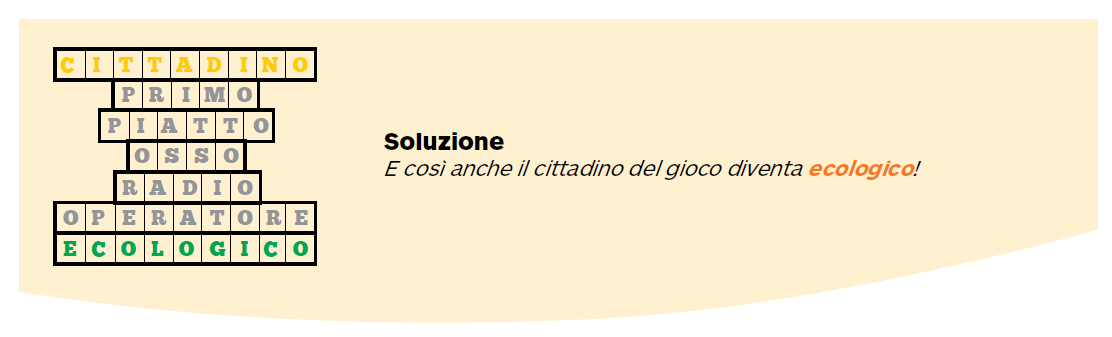
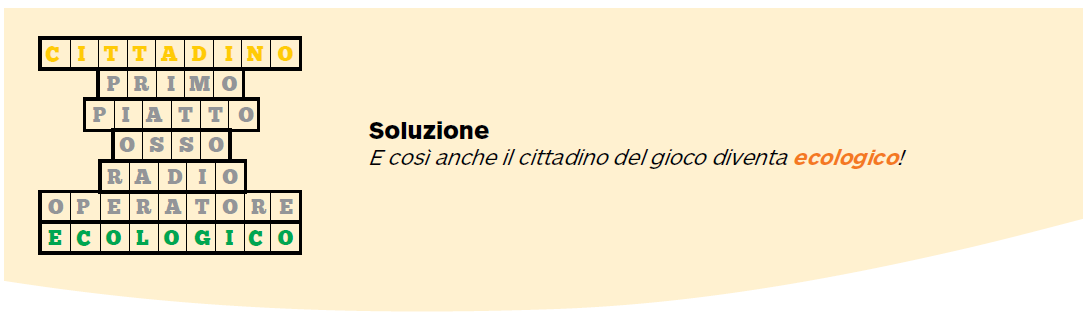
Pannelo 15 rifatto completamente. Ridimensionata immagine soluzione.

Changed region(s): [[0.0, 0.0, 1.0, 0.9937], [0.3343, 0.3691, 0.8508, 0.5394]]

diff --git a/p15Soluzione.html b/p15Soluzione.html
@@ -12,71 +12,73 @@
 		<title> Soluzione </title>
 	</head>
 	<body>
-		<img src="./img/p15Intestazione.png" alt="Intestazione" style="width:100%"><br>
-		<h1 class="TitoloParte2"> Cittadini a basso consumo </h1><br><br>
+		<header>
+			<img src="./img/p15Intestazione.png" alt="Intestazione" class="Intestazione">
+		</header>
+		<main>
+			<h1 class="Colore Titolo2 "> Cittadini a basso consumo</h1>
+			<center>
+				<img src="./img/p15Domotica.png" class="ImgResize80" style="width:65%">
+			</center>
+			<section class="row">
+				<article class="col">
+					La <b>citt&agrave; intelligente</b> &egrave; abitata da cittadini che ne sfruttano
+					in modo consapevole e sostenibile le risorse. Il
+					<b>cittadino</b> della <i>smart city</i> produce energia <b>pulita</b>, la
+					<b>utilizza</b> e la <b>scambia</b> con la rete e, grazie alle tecnologie,
+					conosce in tempo reale i suoi consumi. La sua casa
+					&egrave; un edificio verde, costruito con tecniche di <i><b>green
+					building</b></i> e governato dalla <b>domotica</b>, che lo aiuta a
+					evitare sprechi dovuti a dimenticanze e malfunzionamenti.
+					I sistemi domotici gestiscono gli elettrodomestici
+					in modo razionale, azionano tapparelle, termosifoni
+					e condizionatori in funzione della temperatura e
+					della luce del sole, comprendono prese che regolano
+					spegnimenti e consumi e lampade smart che modulano
+					l&apos;intensit&agrave; della luce. <br>
+					E gli oggetti dialogano tra loro, con la citt&agrave; e con cittadini
+					in una rete <b>&ldquo;Internet delle Cose&rdquo;</b> (<i>Internet of Things</i>)
+					che vedr&agrave; nel 2020 <b>cinquanta miliardi</b> di <b>dispositivi
+					connessi</b>! Queste innovazioni si stanno diffondendo e
+					nei prossimi decenni saranno una realt&agrave; comune. <br>
+					Ma tu puoi da subito cambiare le tue abitudini e adottare
+					<b>comportamenti virtuosi</b>. Qualche consiglio? <br><br>
+					- Le <b>lampadine</b> ad incandescenza sono fuori legge... se ne sopravvive qualcuna, sostituiscila con una
+					lampadina a basso consumo, possibilmente a <b>LED</b> <br>
+					- Non lasciare in <b>stand-by</b> televisori, computer o stampanti
+				</article>
+				<article class="col">
+					- <b>Spegni la luce</b> quando esci da una stanza <br>
+					- Non riporre <b>cibi caldi</b> nel <b>frigorifero</b> (e sbrinalo
+					spesso!) <br>
+					- Scegli bene la <b>classe energetica</b> dei tuoi elettrodomestici:
+					pi&ugrave; alta &egrave; la classe pi&ugrave; basso &egrave; il
+					consumo <br>
+					- Avvia <b>lavatrice</b> e <b>lavastoviglie</b> solo se <b>a pieno
+					carico</b> <br>
+					- Se fa caldo, non aprire porte e finestre: <b>abbassa
+					la temperatura</b> dei termosifoni! <br>
+					- <b>Cambia</b> i <b>vecchi infissi</b> per isolare termicamente
+					la tua casa <br>
+					- Imposta la temperatura dell&apos;<b>impianto di condizionamento</b>
+					in modo da evitare <b>sbalzi termici</b> tra interno ed esterno. <br><br>
+					C&apos;&egrave; tanto da fare per diventare sostenibili ed &egrave; essenziale
+					il contributo di ogni cittadino. <br><br>
+					Speriamo che questo piccolo viaggio nel mondo della
+					sostenibilit&agrave; ti sia servito ad imparare cose nuove
+					e a diventare pi&ugrave; consapevole e pi&ugrave; ecologico.
 
-		<center>
-		<img src="./img/p15Domotica.png" style="width: 70%">
-		</center>
+					<br>
 
-	<div class="TestoSinistra2">
-La <b>citt&agrave; intelligente</b> &egrave; abitata da cittadini che ne sfruttano
-in modo consapevole e sostenibile le risorse. Il
-<b>cittadino</b> della <i>smart city</i> produce energia <b>pulita</b>, la
-<b>utilizza</b> e la <b>scambia</b> con la rete e, grazie alle tecnologie,
-conosce in tempo reale i suoi consumi. La sua casa
-&egrave; un edificio verde, costruito con tecniche di <i><b>green
-building</b></i> e governato dalla <b>domotica</b>, che lo aiuta a
-evitare sprechi dovuti a dimenticanze e malfunzionamenti.
-I sistemi domotici gestiscono gli elettrodomestici
-in modo razionale, azionano tapparelle, termosifoni
-e condizionatori in funzione della temperatura e
-della luce del sole, comprendono prese che regolano
-spegnimenti e consumi e lampade smart che modulano
-l&apos;intensit� della luce. <br>
-E gli oggetti dialogano tra loro, con la citt&agrave; e con cittadini
-in una rete <b>&ldquo;Internet delle Cose&rdquo;</b> (<i>Internet of Things</i>)
-che vedr&agrave; nel 2020 <b>cinquanta miliardi</b> di <b>dispositivi
-connessi</b>! Queste innovazioni si stanno diffondendo e
-nei prossimi decenni saranno una realt&agrave; comune. <br>
-Ma tu puoi da subito cambiare le tue abitudini e adottare
-<b>comportamenti virtuosi</b>. Qualche consiglio? <br><br>
-- Le <b>lampadine</b> ad incandescenza sono fuori legge� se ne sopravvive qualcuna, sostituiscila con una
-lampadina a basso consumo, possibilmente a <b>LED</b> <br>
-- Non lasciare in <b>stand-by</b> televisori, computer o stampanti
-	</div>
+					C&apos;&egrave; tanto da fare per proteggere il nostro ambiente e anche tu puoi dare il tuo contributo di ogni <b>cittadino</b>.
+					Speriamo che questo piccolo viaggio nel mondo della
+					sostenibilit&agrave; ti sia servito ad imparare cose nuove
+					e a diventare pi&ugrave; consapevole e pi&ugrave; <b>ecologico</b>.
 
-	<div class="TestoDestra2">
-- <b>Spegni la luce</b> quando esci da una stanza <br>
-- Non riporre <b>cibi caldi</b> nel <b>frigorifero</b> (e sbrinalo
-spesso!) <br>
-- Scegli bene la <b>classe energetica</b> dei tuoi elettrodomestici:
-pi� alta &egrave; la classe pi� basso � il
-consumo <br>
-- Avvia <b>lavatrice</b> e <b>lavastoviglie</b> solo se <b>a pieno
-carico</b> <br>
-- Se fa caldo, non aprire porte e finestre: <b>abbassa
-la temperatura</b> dei termosifoni! <br>
-- <b>Cambia</b> i <b>vecchi infissi</b> per isolare termicamente
-la tua casa <br>
-- Imposta la temperatura dell&apos;<b>impianto di condizionamento</b>
-in modo da evitare <b>sbalzi termici</b> tra interno ed esterno. <br><br>
-C&apos;&egrave; tanto da fare per diventare sostenibili ed &egrave; essenziale
-il contributo di ogni cittadino. <br><br>
-Speriamo che questo piccolo viaggio nel mondo della
-sostenibilit&agrave; ti sia servito ad imparare cose nuove
-e a diventare pi&ugrave; consapevole e pi&ugrave; ecologico.
-
-<br>
-
-C&apos;&egrave; tanto da fare per proteggere il nostro ambiente e anche tu puoi dare il tuo contributo di ogni <b>cittadino</b>.
-Speriamo che questo piccolo viaggio nel mondo della
-sostenibilit&agrave; ti sia servito ad imparare cose nuove
-e a diventare pi&ugrave; consapevole e pi&ugrave; <b>ecologico</b>.
-
-	<br><br><br><br></div>
+			</article>
+		</section>
 	<center>
-		<img src="./img/p15Sol.png" alt="Immagine finale" style="width:70%"><br><br>
+		<img src="./img/p15Sol.png" alt="Immagine finale" class="ImgStandard">
 	</center>
 			<section class="Center">
 				<a href="p15Introduzione.html">

diff --git a/p15Introduzione.html b/p15Introduzione.html
@@ -1,69 +1,73 @@
-<!DOCTYPE html>  <!--Pittaluga Cambiaso Uboldi-->
-<html>
+<!DOCTYPE html>  <!--Di Lisio, Petri-->
+<html lang = "it">
 	<head>
+		<meta charset="utf-8">
+		<link rel="stylesheet" href="./css/master.css">
 		<link rel="stylesheet" type="text/css" href="./css/pannelli_energia.css">
+		<link rel="stylesheet" href="https://maxcdn.bootstrapcdn.com/bootstrap/4.0.0-beta/css/bootstrap.min.css" integrity="sha384-/Y6pD6FV/Vv2HJnA6t+vslU6fwYXjCFtcEpHbNJ0lyAFsXTsjBbfaDjzALeQsN6M" crossorigin="anonymous">
+    <script src="https://code.jquery.com/jquery-3.2.1.slim.min.js" integrity="sha384-KJ3o2DKtIkvYIK3UENzmM7KCkRr/rE9/Qpg6aAZGJwFDMVNA/GpGFF93hXpG5KkN" crossorigin="anonymous"></script>
+    <script src="https://cdnjs.cloudflare.com/ajax/libs/popper.js/1.11.0/umd/popper.min.js" integrity="sha384-b/U6ypiBEHpOf/4+1nzFpr53nxSS+GLCkfwBdFNTxtclqqenISfwAzpKaMNFNmj4" crossorigin="anonymous"></script>
+    <script src="https://maxcdn.bootstrapcdn.com/bootstrap/4.0.0-beta/js/bootstrap.min.js" integrity="sha384-h0AbiXch4ZDo7tp9hKZ4TsHbi047NrKGLO3SEJAg45jXxnGIfYzk4Si90RDIqNm1" crossorigin="anonymous"></script>
 		<script src="loghi.js"></script>
-		<!--<meta name="viewport" content="width=device-width, initial-scale=1.0">-->
-		<title> Cittadini a basso consumo </title>
+		<title>  Cittadini a basso consumo  </title>
 	</head>
 	<body>
-		<center>
-		<img src="./img/p15Intestazione.png" alt="Intestazione" style="width:100%">
-		<h1 class="Titolo">Cittadini a basso consumo</h1><br>
-		</center><br><br>
+		<header>
+			<img src="./img/p15Intestazione.png" alt="Intestazione" class="Intestazione">
+		</header>
+		<main>
+			<h1 class="Colore Titolo1 Center"> Cittadini a basso consumo </h1>
+			
+			<section class="row">
+				<article class="col">
+					<img src="./img/p15PensatoreFelice.png" style="width:100%">
+				</article>
+				<article class="col Left" style="text-align: justify;">
+					Abbiamo visto quanto le attivit&agrave; quotidiane
+					&ldquo;pesino&rdquo; sull&apos;ambiente e come
+					<b>semplici gesti</b> (riparare una perdita
+					d&apos;acqua dell&apos;impianto domestico, modificare
+					le nostre abitudini di consumo,
+					ridurre, riutilizzare e differenziare i rifiuti)
+					possano diventare il <b>carburante
+					della sostenibilit&agrave;</b>. Il nostro percorso
+					termina sul retro di questo pannello,
+					con altri consigli che possono aiutarci
+					a diventare meno &ldquo;energivori&rdquo; e a trasformarci
+					in <b>eco-cittadini.</b>
 
-	<div class="TestoSinistra">
-	<img src="./img/p15PensatoreFelice.png" style="width:80%">
-	</div>
+					<br><br>
 
-	<div class="TestoDestra">
-		Abbiamo visto quanto le attivit&agrave; quotidiane
-&ldquo;pesino&rdquo; sull&apos;ambiente e come
-<b>semplici gesti</b> (riparare una perdita
-d&apos;acqua dell&apos;impianto domestico, modificare
-le nostre abitudini di consumo,
-ridurre, riutilizzare e differenziare i rifiuti)
-possano diventare il <b>carburante
-della sostenibilit&agrave;</b>. Il nostro percorso
-termina sul retro di questo pannello,
-con altri consigli che possono aiutarci
-a diventare meno &ldquo;energivori&rdquo; e a trasformarci
-in <b>eco-cittadini.</b>
+					La strada che il cittadino deve percorrere
+					per diventare ecologico non è difficile:
+					&egrave; breve e pu&ograve; essere anche… un <b>gioco</b>.
+					Come quello che ti proponiamo qui sotto:
+					devi partire dalla parola <b>CITTADINO</b>
+					e arrivare a <b>ECOLOGICO</b> attraverso una catena formata da <b>cinque parole
+					(OPERATORE, OSSO, PIATTO, PRIMO
+					e RADIO)</b> ciascuna legata a quella che
+					precede e a quella che segue per associazione
+					di idee. Te le forniamo in ordine
+					sparso: a te il compito di individuare la
+					sequenza corretta.
 
-<br><br>
+					<br><br>
 
-La strada che il cittadino deve percorrere
-per diventare ecologico non è difficile:
-&egrave; breve e pu&ograve; essere anche… un <b>gioco</b>.
-Come quello che ti proponiamo qui sotto:
-devi partire dalla parola <b>CITTADINO</b>
-e arrivare a <b>ECOLOGICO</b> attraverso una catena formata da <b>cinque parole
-(OPERATORE, OSSO, PIATTO, PRIMO
-e RADIO)</b> ciascuna legata a quella che
-precede e a quella che segue per associazione
-di idee. Te le forniamo in ordine
-sparso: a te il compito di individuare la
-sequenza corretta.
+					<img src="./img/CittadinoEcologico.png" style="width:50% align:center">
+				</article>
+			</section>
+			<section class="Button Right">
+				<a href="p15Soluzione.html">
+					<img src="./img/FrecciaAvantiGiallaNuova.png" alt="Freccia" class="Button">
+				</a>
+			</section>
+		</main>
+		<footer class="Center">
+			<script>
+	        var testoLoghi = creaLoghi();
+	        document.getElementsByTagName("footer")[0].innerHTML += testoLoghi;
+			</script>
+		</footer>
 
-<br><br>
-
-<img src="./img/CittadinoEcologico.png" style="width:50%">
-
-<br><br>
-	</div>
-	<br>
-
-	<div class="BloccoDiDestra">
-	<a href="p15Soluzione.html"><img src="./img/FrecciaAvantiGiallaNuova.png" alt="Freccia" style="width:20%" hspace="30"></a>
-	</div>
-
-	<br><br><br><br><br><br><br><br>
-	<center>
-	<img src="./img/LogoIren.png" alt="Logo Iren" style="width:20%" hspace="20">
-	<img src="./img/LogoAmga.png" alt="Logo Amga" style="width:20%" hspace="20">
-	<img src="./img/LogoEcofan.png" alt="Logo Ecofan" style="width:20%" hspace="20">
-	<img src="./img/LogoFestival.png" alt="Logo Festival Scienza" style="width:20%" hspace="20">
-	</center>
-	<img src="./img/PiePaginaGiallo.png" alt="Pie' pagina" style="width:100%">
 	</body>
 </html>
